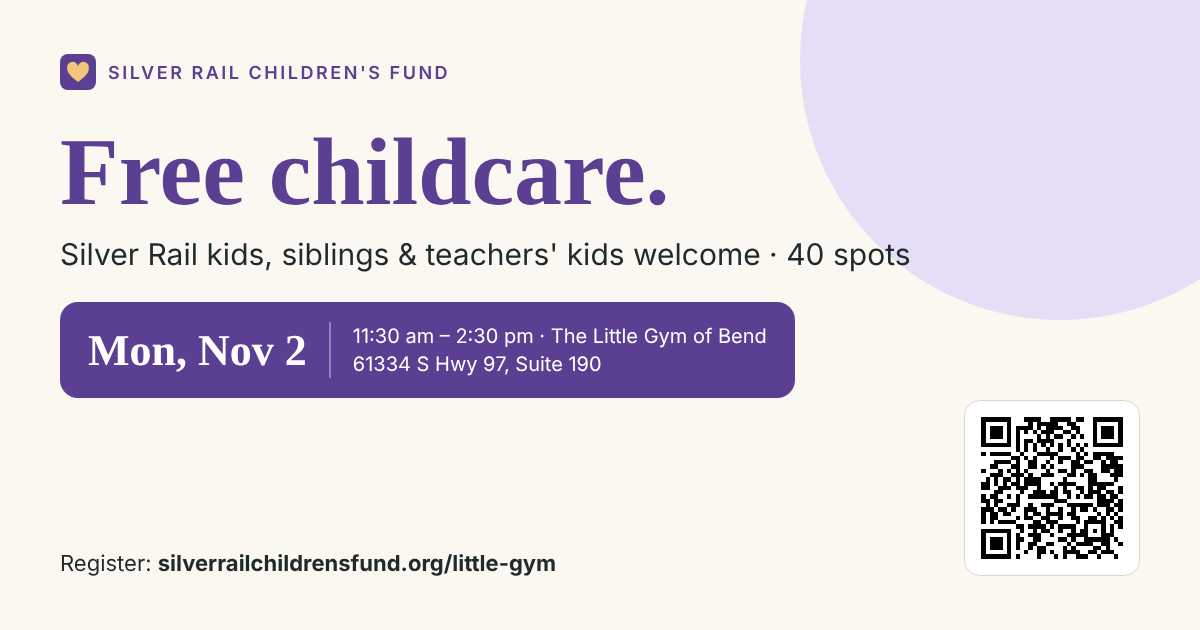
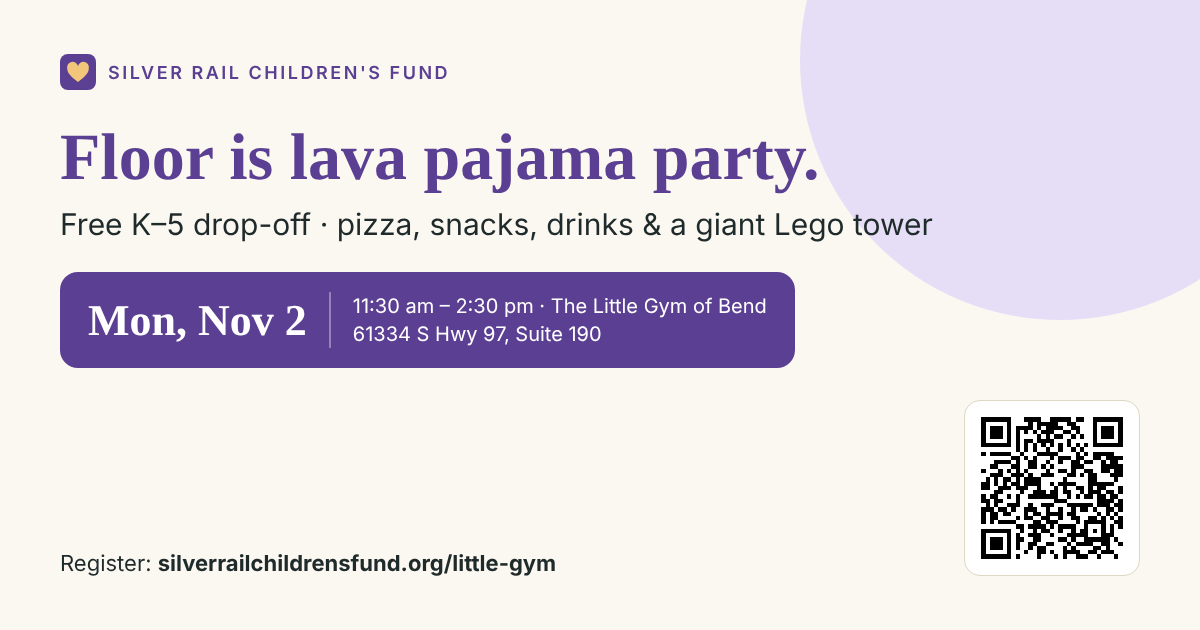
Little Gym event: K–5, floor-is-lava pajama party, Lego tower, pizza; Governor Kotek wording; under-3 rule
Claude-Session: https://claude.ai/code/session_01H4F1UEwoh4LvrPWY2tqQt5

Changed region(s): [[0.0308, 0.2111, 0.7708, 0.6333]]

diff --git a/little-gym.html b/little-gym.html
@@ -3,11 +3,11 @@
 <head>
 <meta charset="utf-8">
 <meta name="viewport" content="width=device-width, initial-scale=1">
-<title>Free Childcare at The Little Gym — Silver Rail Children's Fund</title>
-<meta name="description" content="Free childcare drop-off for Silver Rail kids, siblings, and teachers' and staff kids: Monday, November 2, 11:30 am–2:30 pm at The Little Gym of Bend, 61334 S Hwy 97, Suite 190. 40 spots. Register and sign the release.">
+<title>Floor Is Lava Pajama Party (Free K–5 Drop-Off) at The Little Gym — Silver Rail Children's Fund</title>
+<meta name="description" content="Free K–5 drop-off for Silver Rail kids, siblings, and teachers' and staff kids: Monday, November 2, 11:30 am–2:30 pm at The Little Gym of Bend, 61334 S Hwy 97, Suite 190. 40 spots. Register and sign the release.">
 <meta name="theme-color" content="#5B3F93">
 <link rel="canonical" href="https://silverrailchildrensfund.org/little-gym.html">
-<meta property="og:title" content="Free Childcare at The Little Gym — Mon, Nov 2">
+<meta property="og:title" content="Floor Is Lava Pajama Party — free K–5 drop-off, Mon, Nov 2">
 <meta property="og:description" content="Free drop-off childcare, 11:30 am–2:30 pm at The Little Gym of Bend. Silver Rail kids, siblings, and teachers' kids welcome. 40 spots.">
 <meta property="og:type" content="website">
 <meta property="og:url" content="https://silverrailchildrensfund.org/little-gym.html">
@@ -176,10 +176,10 @@ footer.sf .sf-legal a{color:var(--ink-2)}
 <main>
 <div class="hero">
   <div class="wrap">
-    <div class="eyebrow">Free childcare · Monday, November 2 · Bend</div>
-    <h1>Free childcare, so you can breathe.</h1>
-    <p class="lede"><b>Monday, November 2, 11:30 am to 2:30 pm at The Little Gym of Bend.</b> Free drop-off childcare for Silver Rail kids, their siblings, and the children of Silver Rail teachers and staff.</p>
-    <p class="lede" style="font-size:1.05rem">Parents are welcome to attend the meeting with the Governor's office at <b>12 noon</b>. Email <a href="mailto:hello@silverrailchildrensfund.org">hello@silverrailchildrensfund.org</a> for the location. <b>You can use the drop-off even if you aren't going to the meeting.</b></p>
+    <div class="eyebrow">K–5 drop-off · Monday, November 2 · Bend</div>
+    <h1>Floor is lava pajama party.</h1>
+    <p class="lede"><b>Monday, November 2, 11:30 am to 2:30 pm at The Little Gym of Bend.</b> A free, drop-off friendly pajama party for Silver Rail K–5 students, their siblings, and the children of Silver Rail teachers and staff. The floor is lava, they'll build the world's largest Lego tower, and pizza, snacks, and drinks are included.</p>
+    <p class="lede" style="font-size:1.05rem">Drop off and come to the <b>12 noon</b> meeting with Governor Tina Kotek's office and Oregon's State Resilience Officer, and voice your concerns as parents. Email <a href="mailto:hello@silverrailchildrensfund.org">hello@silverrailchildrensfund.org</a> for the location. <b>You can use the drop-off even if you aren't going to the meeting.</b></p>
     <a class="btn" href="#register">Register now — 40 spots</a>
   </div>
 </div>
@@ -189,22 +189,22 @@ footer.sf .sf-legal a{color:var(--ink-2)}
     <h2>The details.</h2>
     <div class="sess" style="max-width:860px;grid-template-columns:repeat(auto-fit,minmax(240px,1fr))">
       <div class="card open"><span class="tag go">Open</span><b>Mon, Nov 2</b><p>11:30 am – 2:30 pm<br>The Little Gym of Bend<br>61334 S Hwy 97, Suite 190, Bend, OR 97702<br>Free · 40 spots</p></div>
-      <div class="card"><b>What to bring</b><p>Cozy clothes kids can move in, and a water bottle with their name on it.</p></div>
-      <div class="card"><b>Meeting with the Governor's office</b><p>12 noon. Email <a href="mailto:hello@silverrailchildrensfund.org">hello@silverrailchildrensfund.org</a> for the location.</p></div>
+      <div class="card"><b>What to bring</b><p>Pajamas or cozy clothes for free movement, and a water bottle with their name on it. Pizza, snacks, and drinks are on us; note any food allergy on the form.</p></div>
+      <div class="card"><b>Meeting with Governor Kotek's office</b><p>12 noon, with the Governor's office and Oregon's State Resilience Officer. Come voice your concerns as parents. Email <a href="mailto:hello@silverrailchildrensfund.org">hello@silverrailchildrensfund.org</a> for the location.</p></div>
     </div>
     <div class="keep" style="margin-top:26px">
       <div>
         <h3>Drop-off</h3>
         <ul>
           <li>Drop off any time from 11:30, pick up by 2:30. The Little Gym's staff supervise the kids under the gym's own rules and insurance.</li>
-          <li><b>Kids under 3 need an adult to stay with them.</b></li>
+          <li><b>Siblings under 3: a parent must stay on site.</b></li>
           <li>Kids are released only to the adults you list on the form, with photo ID.</li>
         </ul>
       </div>
       <div>
         <h3>Who's welcome</h3>
         <ul>
-          <li>Silver Rail kids, their siblings, and the children of Silver Rail teachers and staff.</li>
+          <li>Silver Rail K–5 students, their siblings, and the children of Silver Rail teachers and staff.</li>
           <li>40 kids. After that, registrations go on a waitlist in the order received, and we'll email you if a spot opens.</li>
           <li>Two quick steps: register with the fund here, then register each child on The Little Gym's booking page.</li>
         </ul>

diff --git a/index.html b/index.html
@@ -265,11 +265,11 @@ footer.sf .sf-legal a{color:var(--ink-2)}
 <section id="little-gym" style="padding:40px 0 0;border:0">
   <div class="wrap">
     <div class="event">
-      <img src="assets/little-gym-square.png" alt="Free childcare for Silver Rail kids, Monday November 2, 11:30 am to 2:30 pm at The Little Gym of Bend">
+      <img src="assets/little-gym-square.png" alt="Floor is lava pajama party for Silver Rail kids, Monday November 2, 11:30 am to 2:30 pm at The Little Gym of Bend">
       <div>
         <div class="eyebrow">Monday, Nov 2 · 11:30 am–2:30 pm · free</div>
-        <h2 style="margin-bottom:.3em">Free childcare at The Little Gym.</h2>
-        <p>Drop-off childcare for Silver Rail kids, siblings, and teachers' and staff kids at 61334 S Hwy 97, Suite 190. Parents are welcome at the meeting with the Governor's office at 12 noon (email hello@silverrailchildrensfund.org for the location), or just take a breath. Kids under 3 need an adult. 40 spots.</p>
+        <h2 style="margin-bottom:.3em">Floor is lava pajama party at The Little Gym.</h2>
+        <p>Free drop-off pajama party for Silver Rail K–5 students, siblings, and teachers' and staff kids at 61334 S Hwy 97, Suite 190: the floor is lava, a giant Lego tower, and pizza, snacks, and drinks. Drop off and come to the 12 noon meeting with Governor Tina Kotek's office and Oregon's State Resilience Officer to voice your concerns as parents (email hello@silverrailchildrensfund.org for the location), or just take a breath. Siblings under 3: a parent stays on site. 40 spots.</p>
         <p style="margin:0"><a class="btn" href="little-gym.html">Register now — 40 spots</a> &nbsp; <a href="little-gym.html" style="font-weight:600">Details →</a></p>
       </div>
     </div>

diff --git a/parents.html b/parents.html
@@ -151,11 +151,11 @@ footer.sf .sf-legal a{color:var(--ink-2)}
 <section id="little-gym" style="padding:36px 0 0;border:0">
   <div class="wrap">
     <div class="event">
-      <img src="assets/little-gym-square.png" alt="Free childcare for Silver Rail kids, Monday November 2, 11:30 am to 2:30 pm at The Little Gym of Bend">
+      <img src="assets/little-gym-square.png" alt="Floor is lava pajama party for Silver Rail kids, Monday November 2, 11:30 am to 2:30 pm at The Little Gym of Bend">
       <div>
         <div class="eyebrow">Monday, Nov 2 · 11:30 am–2:30 pm · free</div>
-        <h2 style="margin-bottom:.3em">Free childcare at The Little Gym.</h2>
-        <p>Drop-off childcare for Silver Rail kids, siblings, and teachers' and staff kids at 61334 S Hwy 97, Suite 190. Parents are welcome at the meeting with the Governor's office at 12 noon (email hello@silverrailchildrensfund.org for the location), or just take a breath. Kids under 3 need an adult. 40 spots.</p>
+        <h2 style="margin-bottom:.3em">Floor is lava pajama party at The Little Gym.</h2>
+        <p>Free drop-off pajama party for Silver Rail K–5 students, siblings, and teachers' and staff kids at 61334 S Hwy 97, Suite 190: the floor is lava, a giant Lego tower, and pizza, snacks, and drinks. Drop off and come to the 12 noon meeting with Governor Tina Kotek's office and Oregon's State Resilience Officer to voice your concerns as parents (email hello@silverrailchildrensfund.org for the location), or just take a breath. Siblings under 3: a parent stays on site. 40 spots.</p>
         <p style="margin:0"><a class="btn" href="little-gym.html">Register now — 40 spots</a> &nbsp; <a href="little-gym.html" style="font-weight:600">Details →</a></p>
       </div>
     </div>
